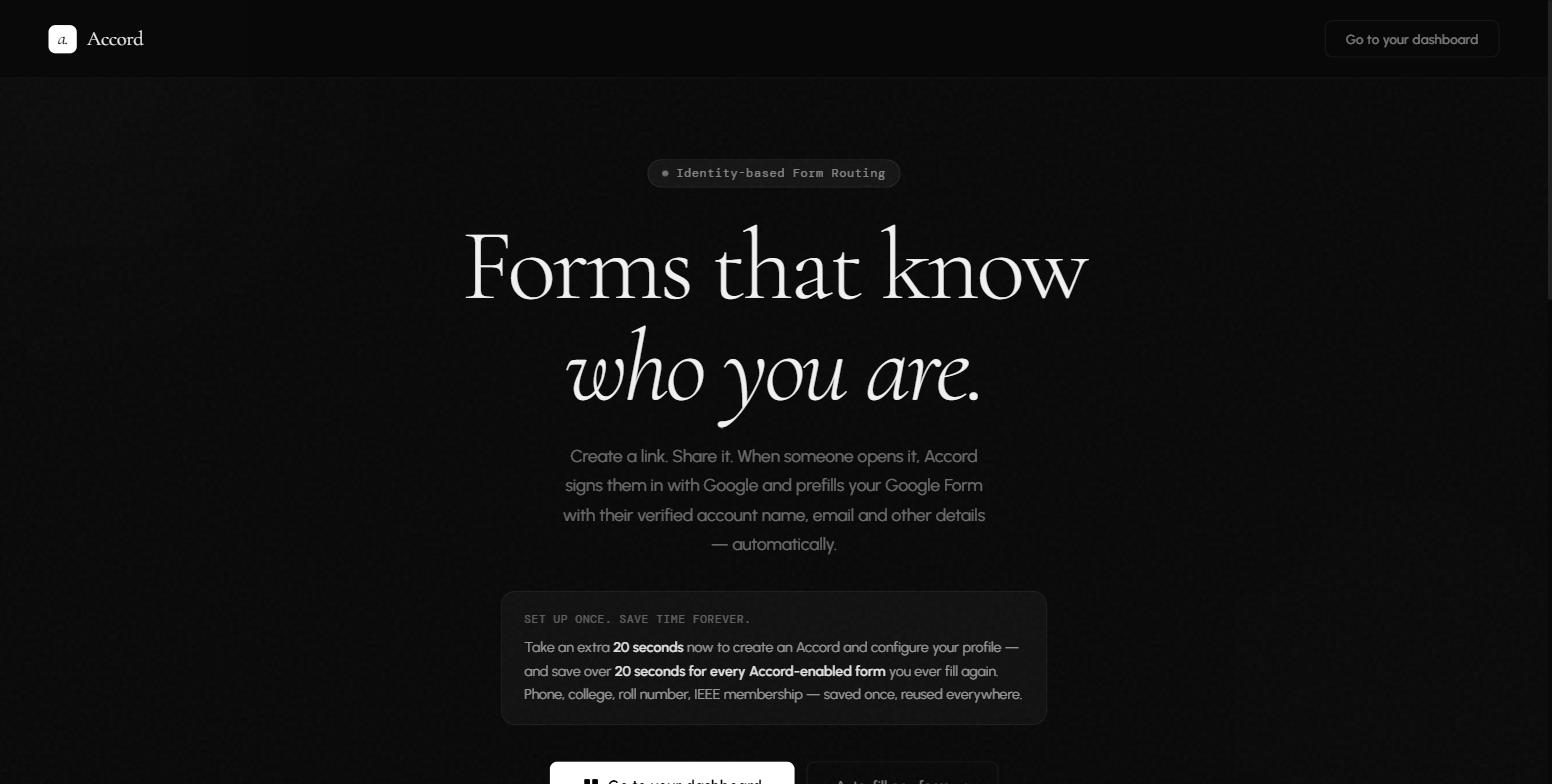
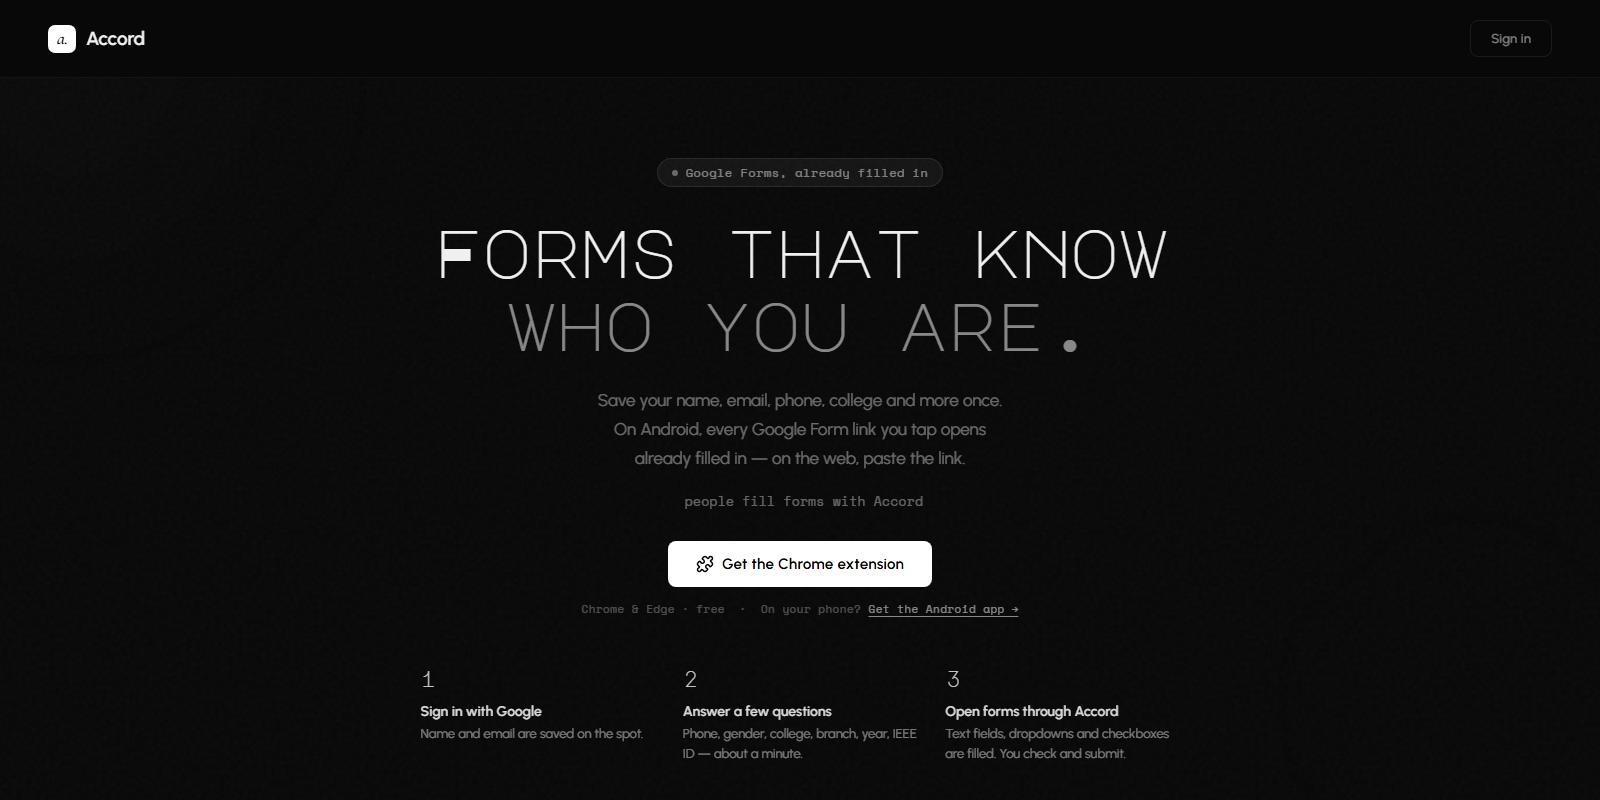
Projects: add Arinjo, refresh Accord
Accord's landing no longer leads on sharing a prefill link — the
Chrome extension, the Android forms.gle interceptor and the web fill
page are the surfaces now, so the card copy and screenshot follow.

diff --git a/index.html b/index.html
@@ -557,15 +557,40 @@
           <span class="project-card__tagline text-blue">Forms that know who you are.</span>
           <h3 class="project-card__title text-sky">ACCORD</h3>
           <p class="project-card__description">
-            Save your identity once and auto-fill any Google Form with a single link.
-            Static web app with a Firebase backend, plus an Android companion that intercepts forms.gle links.
+            Save your details once and every Google Form opens already filled in &mdash; through a Chrome extension,
+            an Android app that intercepts forms.gle links, or the web. Profile rules match questions by label,
+            on a Firebase backend with a read-only public API.
           </p>
           <div class="project-card__tech">
             <span class="project-card__tech-tag">JavaScript</span>
             <span class="project-card__tech-tag">Firebase</span>
             <span class="project-card__tech-tag">Netlify Functions</span>
+            <span class="project-card__tech-tag">Chrome Extension</span>
             <span class="project-card__tech-tag">Kotlin</span>
-            <span class="project-card__tech-tag">UI/UX</span>
+          </div>
+        </div>
+      </a>
+
+      <!-- Arinjo -->
+      <a href="https://arinjo.in/" target="_blank" rel="noopener"
+        class="widget widget--peach col-span-3 lg:col-span-6 fade-in-up stagger-6 project-widget" id="project-arinjo">
+        <div class="project-card">
+          <div class="project-card__image-wrapper">
+            <img src="projects/arinjo/1.png" alt="Arinjo landing page" class="project-card__preview" loading="lazy">
+          </div>
+          <span class="project-card__tagline text-yellow">Kerala&rsquo;s student events, in one place.</span>
+          <h3 class="project-card__title text-peach">ARINJO</h3>
+          <p class="project-card__description">
+            Hackathons, tech fests, workshops and contests from across all fourteen districts &mdash; checked by a
+            person and sorted by what closes first. Live deadline countdowns, district and category filters, and
+            push notifications when something new goes up.
+          </p>
+          <div class="project-card__tech">
+            <span class="project-card__tech-tag">Next.js</span>
+            <span class="project-card__tech-tag">TypeScript</span>
+            <span class="project-card__tech-tag">Supabase</span>
+            <span class="project-card__tech-tag">Tailwind</span>
+            <span class="project-card__tech-tag">PWA</span>
           </div>
         </div>
       </a>
